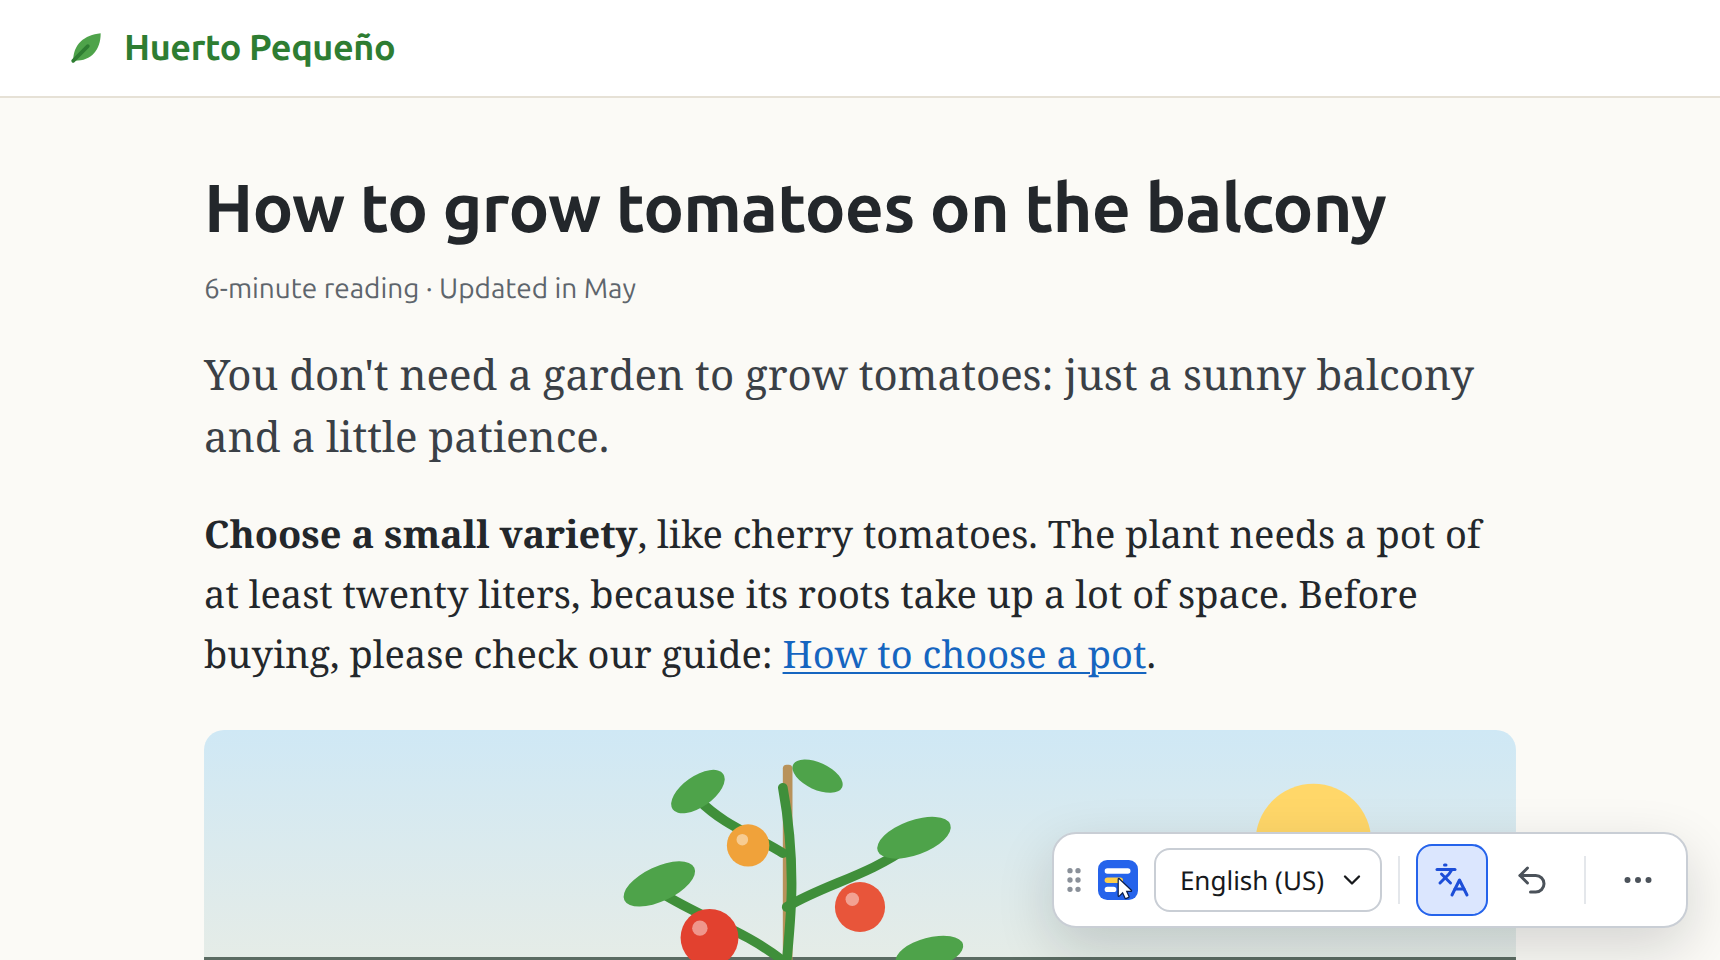
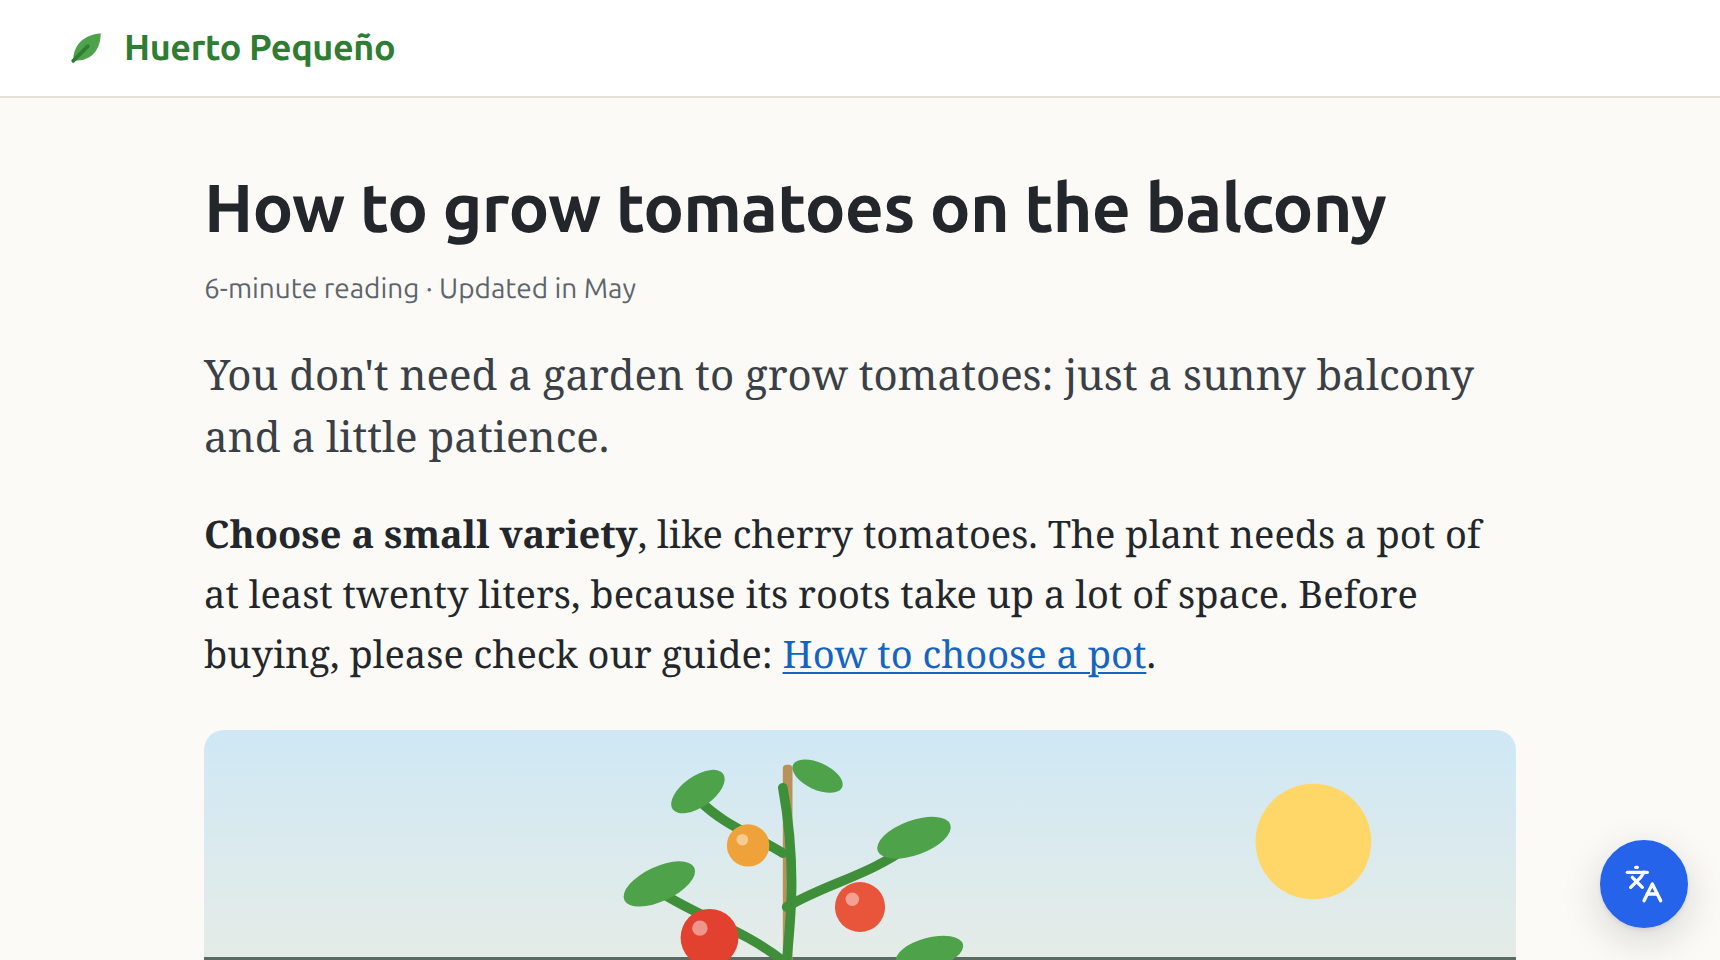
Картинки магазина: плавающая кнопка вместо мини-панели
Кадр 4 «Вся страница — одним нажатием» переснят: на переведённой странице справа внизу кружок,
в подвале окна — кнопка с новой иконкой; между окном и кружком 24 px, чтобы тень окна не
затемняла кружок. Описание назначения для магазина — про плавающую кнопку.

Changed region(s): [[0.5855, 0.8438, 0.986, 1.0]]

diff --git a/assets/store/capture.js b/assets/store/capture.js
@@ -15,7 +15,7 @@
 //   s2-card.png                 — перевод карточкой рядом с абзацем (860×440, ×2);
 //   s3-settings.png             — страница настроек, раздел «На странице»: способ перевода и показа (×3);
 //   s4-popup.png, s4-page.png   — окно расширения с кнопкой «Перевести страницу» (×3) и переведённая
-//                                 страница с мини-панелью (860×480, ×2);
+//                                 страница с плавающей кнопкой (860×480, ×2);
 //   s5-translator.png           — страница настроек, раздел «Переводчик»: выбран DeepL, шаг согласия (×3).
 //
 // Окно расширения: Extensions.triggerAction открывает настоящее окно по значку — так расширение получает
@@ -147,7 +147,7 @@ async function shot(tab, file, clip) {
   console.log("   " + path.relative(HERE, file));
 }
 
-// Наш интерфейс на странице (уведомления, карточка, мини-панель) — в закрытом shadow root под хостом
+// Наш интерфейс на странице (уведомления, карточка, плавающая кнопка) — в закрытом shadow root под хостом
 // с атрибутом data-ht-ui; CDP видит его через pierce. visit(node) — для каждого узла внутри.
 async function walkUi(tab, visit) {
   const { root } = await tab.cmd("DOM.getDocument", { depth: -1, pierce: true });
@@ -342,9 +342,9 @@ async function run(lang) {
     await web.key("rawKeyDown", "Escape", "Escape", 0, 27); await web.key("keyUp", "Escape", "Escape", 0, 27); await sleep(300);
     await store({ displayMode: "replace" }); await sleep(300);
 
-    // ---- 4. Окно расширения и переведённая страница с мини-панелью ----
+    // ---- 4. Окно расширения и переведённая страница с плавающей кнопкой ----
     // Сначала окно (страница только что загружена — на месте действия «Перевести страницу»), потом перевод.
-    await store({ hudShown: true, hudPos: null }); await sleep(300);   // мини-панель — на своём месте (внизу справа)
+    await store({ hudShown: true, hudPos: null }); await sleep(300);   // кружок — на своём месте (справа внизу в 16 px); страница переведена — залит акцентом
     await view(860, 480, 2);
     await web.cmd("Page.reload"); await sleep(1500); await scrollTo(0); await park();
     const popupH = await grant();

diff --git a/assets/store/screens.html b/assets/store/screens.html
@@ -6,7 +6,7 @@
   <!-- Скриншот магазина 1280×800: screens.html?n=1..5&lang=en|ru. Подписи — texts.js, снимки
        настоящего расширения — shots/<lang>/ (их делает capture.js), значок — из расширения.
        1 — до и после (абзац клавишей); 2 — карточка; 3 — страница настроек: способ перевода и показа;
-       4 — окно расширения у значка и переведённая страница с мини-панелью; 5 — раздел «Переводчик». -->
+       4 — окно расширения у значка и переведённая страница с плавающей кнопкой; 5 — раздел «Переводчик». -->
   <link rel="stylesheet" href="store.css" />
   <script src="texts.js"></script>
 </head>
@@ -86,13 +86,13 @@ const S = {
     await sidePanel("s3-settings.png", 70 + sideW, LAYOUT.s3.bg);
   },
   // 4. Перевести страницу: окно расширения выходит из значка на панели, рамка — вокруг «Перевести страницу»;
-  // за окном — переведённая страница с мини-панелью внизу справа
+  // за окном — переведённая страница с плавающей кнопкой (кружок, залит акцентом) справа внизу
   async 4() {
     const cap = caption(T.s4);
     const [vw, vh] = LAYOUT.s4.view, P = LAYOUT.s4.popup;
     const b = fitWin(cap, { img: "s4-page.png", vw, vh, maxW: 1120, path: "/tomates", icon: "on" });
-    // окно не закрывает мини-панель (48 px, отступ 16 от низа): низ окна — выше неё
-    const top = b.y + 40, limit = b.py + (vh - 16 - 48 - 10) * b.s;
+    // окно не закрывает кружок (44 px, отступ 16 от низа): низ окна — выше него на 24, чтобы тень окна не гасила акцент
+    const top = b.y + 40, limit = b.py + (vh - 16 - 44 - 24) * b.s;
     const ps = Math.min(1.2, (limit - top) / P.h);
     const pw = Math.round(P.w * ps), ph = Math.round(P.h * ps), px = b.x + b.w - pw - 12;
     add(`<div class="panel" style="left:${px}px;top:${top}px;width:${pw}px;height:${ph}px"><img src="${SH}s4-popup.png" width="${pw}" height="${ph}" alt=""></div>`);

diff --git a/store/dashboard.md b/store/dashboard.md
@@ -25,7 +25,7 @@ read; the URL is not stored or sent. `activeTab` shows no warning at install.
 ## Single purpose
 
 ```text
-Translate text on web pages in place. The user points at text and presses a key (or rests the cursor, or clicks "Translate page"), and the extension replaces that text with its translation, keeping links and layout, or shows it in a small card. Translation is done by Chrome's built-in on-device translator by default, or, if the user chooses and explicitly agrees, by DeepL, OpenAI or Anthropic using the user's own API key. Everything else in the extension (language choice, shortcuts, turning it off per site, a small language panel) serves this one purpose.
+Translate text on web pages in place. The user points at text and presses a key (or rests the cursor, or clicks "Translate page"), and the extension replaces that text with its translation, keeping links and layout, or shows it in a small card. Translation is done by Chrome's built-in on-device translator by default, or, if the user chooses and explicitly agrees, by DeepL, OpenAI or Anthropic using the user's own API key. Everything else in the extension (language choice, shortcuts, turning it off per site, a floating button with a language menu) serves this one purpose.
 ```
 
 ## Permission justifications
